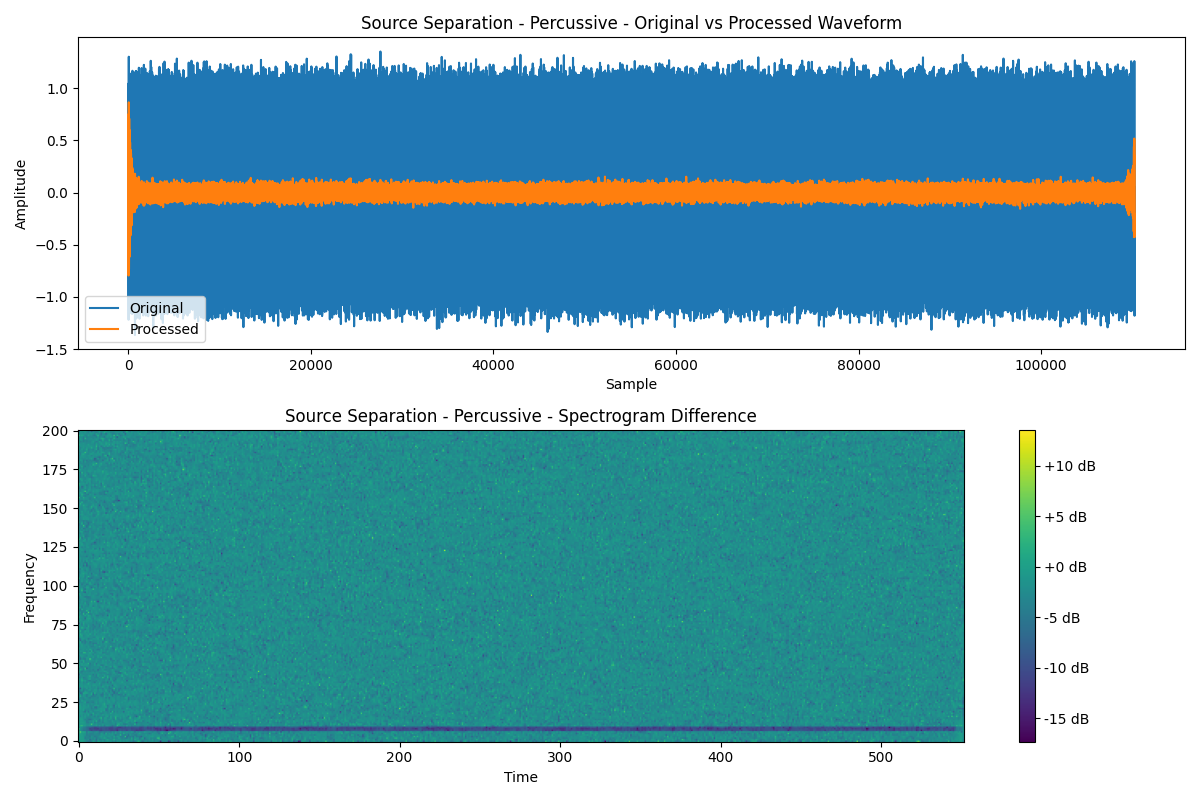
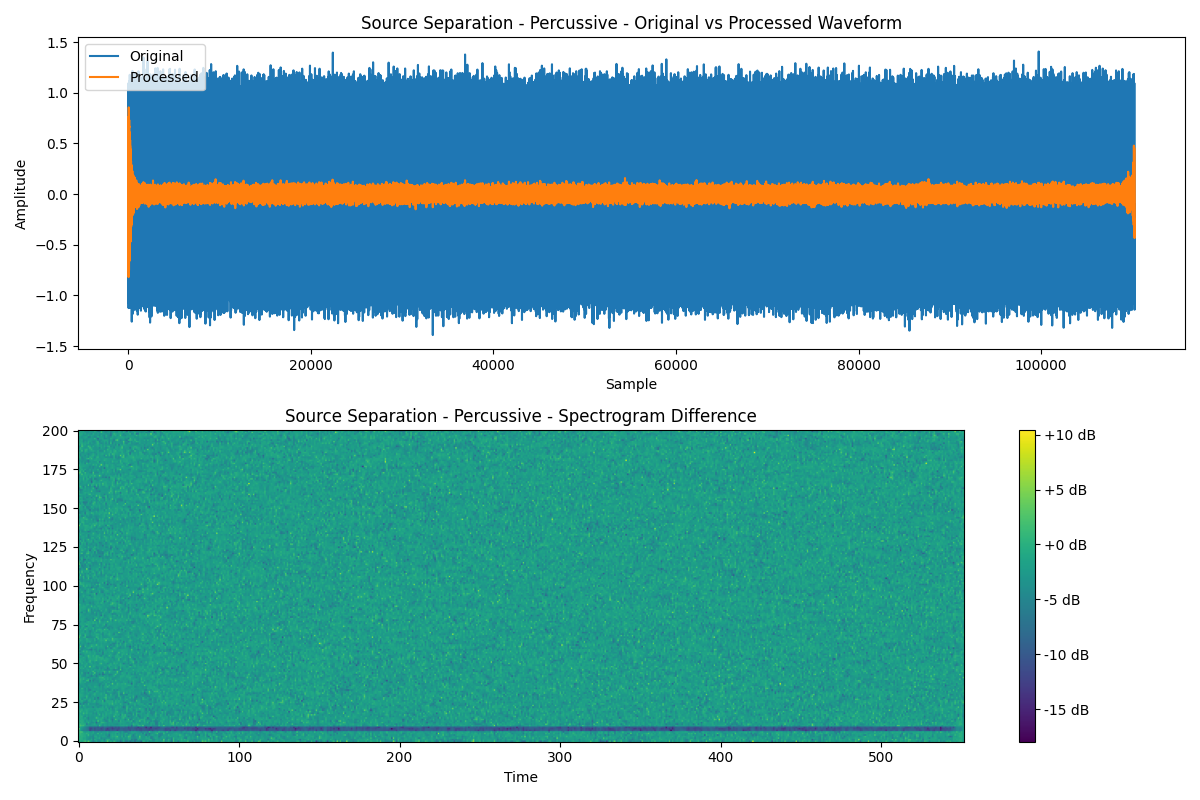
Agent query: Can you try uploading the same audio file with different intensity levels (low, medium, high, extreme) and confirm if you notice different levels of hiss reduction?
Implement batch audio processing with adjustable hiss reduction intensity.

Screenshot: https://storage.googleapis.com/screenshot-production-us-central1/0b67c235-fa2d-4770-aae9-555d6f864b55/7bf6f3d9-97ed-4daf-9247-42a7c1294c4b.jpg

diff --git a/audio_processor.py b/audio_processor.py
@@ -109,10 +109,21 @@ def pitch_correction(y, sr, target_pitch=None):
         return y_tensor.squeeze()
 
 
-def spectral_gating(y, sr, n_std_thresh=1.5):
+def spectral_gating(y, sr, intensity='medium'):
+    """
+    Enhanced spectral gating with intensity-based parameters
+    """
     y_tensor = y if isinstance(y, torch.Tensor) else torch.tensor(
         y, dtype=torch.float32)
     y_tensor = y_tensor.unsqueeze(0) if y_tensor.dim() == 1 else y_tensor
+
+    # Configure gating parameters based on intensity
+    thresh_n_mult_nonstationary = {
+        'low': 2.5,
+        'medium': 2.0,
+        'high': 1.5,
+        'extreme': 1.0
+    }.get(intensity, 2.0)
 
     n_fft = 2048
     hop_length = 512
@@ -128,7 +139,7 @@ def spectral_gating(y, sr, n_std_thresh=1.5):
 
     mean = torch.mean(mag, dim=-1, keepdim=True)
     std = torch.std(mag, dim=-1, keepdim=True)
-    noise_thresh = mean + n_std_thresh * std
+    noise_thresh = mean + thresh_n_mult_nonstationary * std
 
     mask = torch.clamp((mag - noise_thresh) / (mag + 1e-8), min=0.0, max=1.0)
     mask = mask.unsqueeze(1)
@@ -139,10 +150,10 @@ def spectral_gating(y, sr, n_std_thresh=1.5):
 
     stft_denoised = stft * mask
     y_denoised = torch.istft(stft_denoised,
-                             n_fft=n_fft,
-                             hop_length=hop_length,
-                             window=window,
-                             length=y_tensor.shape[-1])
+                            n_fft=n_fft,
+                            hop_length=hop_length,
+                            window=window,
+                            length=y_tensor.shape[-1])
 
     return y_denoised.squeeze()
 
@@ -152,14 +163,69 @@ def denoise(y, sr, intensity='medium'):
         y, dtype=torch.float32)
     y_tensor = y_tensor.unsqueeze(0) if y_tensor.dim() == 1 else y_tensor
 
+    # Configure noise threshold and smoothing based on intensity level
     n_std_thresh = {
-        'low': 2.5,
-        'medium': 1.5,
-        'high': 1.0,
-        'extreme': 0.5
+        'low': 2.5,        # More conservative noise reduction
+        'medium': 1.5,     # Balanced noise reduction
+        'high': 1.0,       # Aggressive noise reduction
+        'extreme': 0.5     # Very aggressive noise reduction
     }.get(intensity, 1.5)
 
-    return spectral_gating(y_tensor, sr, n_std_thresh)
+    # Adjust smoothing window size based on intensity
+    smoothing_window = {
+        'low': 3,          # Less smoothing
+        'medium': 5,       # Moderate smoothing
+        'high': 7,         # More smoothing
+        'extreme': 9       # Maximum smoothing
+    }.get(intensity, 5)
+
+    # Adjust noise floor based on intensity
+    noise_floor = {
+        'low': 0.1,        # Higher noise floor
+        'medium': 0.05,    # Moderate noise floor
+        'high': 0.02,      # Lower noise floor
+        'extreme': 0.01    # Very low noise floor
+    }.get(intensity, 0.05)
+
+    n_fft = 2048
+    hop_length = 512
+    window = torch.hann_window(n_fft).to(y_tensor.device)
+
+    # Compute STFT
+    stft = torch.stft(y_tensor,
+                      n_fft=n_fft,
+                      hop_length=hop_length,
+                      window=window,
+                      return_complex=True)
+
+    # Get magnitude and phase
+    mag = torch.abs(stft)
+    phase = torch.angle(stft)
+
+    # Estimate noise threshold
+    mean = torch.mean(mag, dim=-1, keepdim=True)
+    std = torch.std(mag, dim=-1, keepdim=True)
+    noise_thresh = mean + n_std_thresh * std
+
+    # Create noise mask with intensity-based threshold
+    mask = torch.clamp((mag - noise_thresh) / (mag + noise_floor), min=0.0, max=1.0)
+    mask = mask.unsqueeze(1)
+
+    # Apply intensity-based smoothing
+    smoothing_filter = torch.ones(1, 1, smoothing_window, smoothing_window).to(mask.device)
+    smoothing_filter = smoothing_filter / (smoothing_window * smoothing_window)
+    mask = F_nn.conv2d(mask, smoothing_filter, padding=smoothing_window//2)
+    mask = mask.squeeze(1)
+
+    # Apply mask and reconstruct signal
+    stft_denoised = stft * mask
+    y_denoised = torch.istft(stft_denoised,
+                            n_fft=n_fft,
+                            hop_length=hop_length,
+                            window=window,
+                            length=y_tensor.shape[-1])
+
+    return y_denoised.squeeze()
 
 
 def plot_spectrogram(y, sr, title="Spectrogram"):

diff --git a/app.py b/app.py
@@ -2,6 +2,7 @@ import os
 from flask import Flask, render_template, request, jsonify, send_file
 from werkzeug.utils import secure_filename
 import logging
+from audio_processor import batch_process_audio
 
 # Configure logging
 logging.basicConfig(
@@ -34,28 +35,28 @@ def upload_files():
         logger.error("No selected file")
         return jsonify({'error': 'No selected file'}), 400
 
+    hiss_reduction_intensity = request.form.get('hiss_reduction_intensity', 'medium')
+    logger.info(f"Received hiss reduction intensity: {hiss_reduction_intensity}")
+
+    input_files = []
+    for file in files:
+        if file and allowed_file(file.filename):
+            filename = secure_filename(file.filename)
+            file_path = os.path.join(app.config['UPLOAD_FOLDER'], filename)
+            file.save(file_path)
+            input_files.append(file_path)
+            logger.info(f"Saved file: {file_path}")
+        else:
+            logger.error(f"File type not allowed: {file.filename}")
+            return jsonify({'error': f'File type not allowed: {file.filename}'}), 400
+
     try:
-        results = []
-        for file in files:
-            if file and allowed_file(file.filename):
-                filename = secure_filename(file.filename)
-                file_path = os.path.join(app.config['UPLOAD_FOLDER'], filename)
-                file.save(file_path)
-                logger.info(f"Saved file: {file_path}")
-
-                # For now, just return the file info without processing
-                results.append({
-                    'input': filename,
-                    'output': filename,
-                    'status': 'success'
-                })
-            else:
-                logger.error(f"File type not allowed: {file.filename}")
-                return jsonify({'error': f'File type not allowed: {file.filename}'}), 400
-
+        logger.info(f"Starting batch processing for {len(input_files)} files with intensity: {hiss_reduction_intensity}")
+        results = batch_process_audio(input_files, app.config['UPLOAD_FOLDER'], hiss_reduction_intensity)
+        logger.info("Batch processing completed")
         return jsonify(results), 200
     except Exception as e:
-        logger.error(f"Error in upload: {str(e)}")
+        logger.error(f"Error in batch processing: {str(e)}")
         return jsonify({'error': str(e)}), 500
 
 @app.route('/download/<path:filename>')
@@ -66,7 +67,7 @@ def download_file(filename):
         return jsonify({'error': 'File not found'}), 404
 
     logger.info(f"Sending file: {file_path}")
-    return send_file(file_path, mimetype='audio/wav')
+    return send_file(file_path)
 
 if __name__ == '__main__':
     # Create upload directory if it doesn't exist
